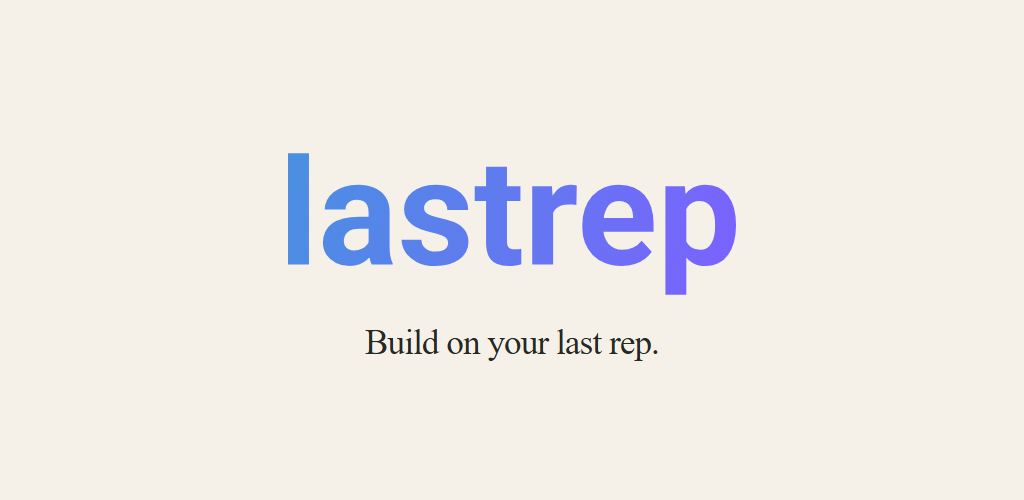
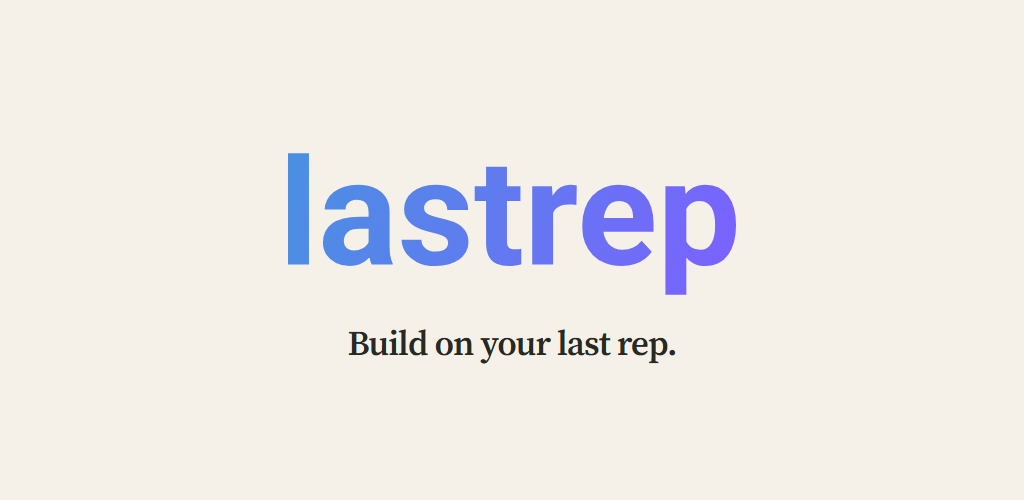
design: match feature graphic to developer header typography

Changed region(s): [[0.3438, 0.66, 0.6562, 0.72]]

diff --git a/store-listing/en-US-2026-11-05/feature-graphic.html b/store-listing/en-US-2026-11-05/feature-graphic.html
@@ -4,18 +4,18 @@
   <meta charset="utf-8">
   <title>Lastrep feature graphic</title>
   <style>
-    @font-face { font-family: Serif; src: url('/assets/fonts/source-serif-4.ttf'); }
+    @font-face { font-family: 'LastrepEditorial'; src: url('../../assets/fonts/source-serif-4.ttf'); font-weight: 400; font-style: normal; }
     * { box-sizing: border-box; }
     html, body { width: 1024px; height: 500px; margin: 0; overflow: hidden; }
     body { background: #f5f1e8; color: #272923; display: flex; align-items: center; justify-content: center; }
     main { display: flex; flex-direction: column; align-items: center; gap: 26px; }
     .brand { display: block; width: 480px; height: 160px; }
-    h1 { margin: 0; font: 500 35px/1.2 Serif, Georgia, serif; letter-spacing: -.025em; }
+    h1 { margin: 0; font: 400 35px/1.2 'LastrepEditorial', Georgia, serif; letter-spacing: -.025em; }
   </style>
 </head>
 <body>
   <main>
-    <img class="brand" src="/hosting/workout-sharing/wordmark.svg" alt="Lastrep">
+    <img class="brand" src="../../hosting/workout-sharing/wordmark.svg" alt="Lastrep">
     <h1>Build on your last rep.</h1>
   </main>
 </body>

diff --git a/store-listing/en-US-2026-11-05/README.md b/store-listing/en-US-2026-11-05/README.md
@@ -33,3 +33,18 @@ The user submitted these listing changes for Google Play review on November 6, 2
 The final feature graphic uses the existing gradient wordmark and the tagline "Build on your last rep." on the app's warm paper background. Individual files are versioned; duplicate ZIP bundles are not retained.
 
 Screenshot filenames include their device group: `phone-01-home-progress.png`, `tablet-7-inch-01-home-progress.png`, and `tablet-10-inch-01-home-progress.png`.
+
+## Feature graphic typography refresh - November 9, 2026
+
+The tagline now uses the same bundled Source Serif 4 font and 400 weight as
+the developer-profile header. The HTML uses a distinct registered font-family
+name and relative asset paths so the font actually loads when opened locally.
+The centered layout, wordmark, tagline and paper background are retained.
+
+Regenerate with `node store-listing/en-US-2026-11-05/render-feature-graphic.cjs`.
+It uses the local Playwright/Edge setup documented for the screenshot gallery
+(or CHROME_PATH), verifies the loaded font, weight and headline fit, writes an
+opaque 1024 x 500 RGB PNG under 15 MB, and updates only the feature-graphic
+entry in the manifest. The result was visually compared with the developer
+header. The user approved and uploaded this refresh, and submitted the listing
+changes for Google Play review on November 9, 2026. Publication remains pending.
